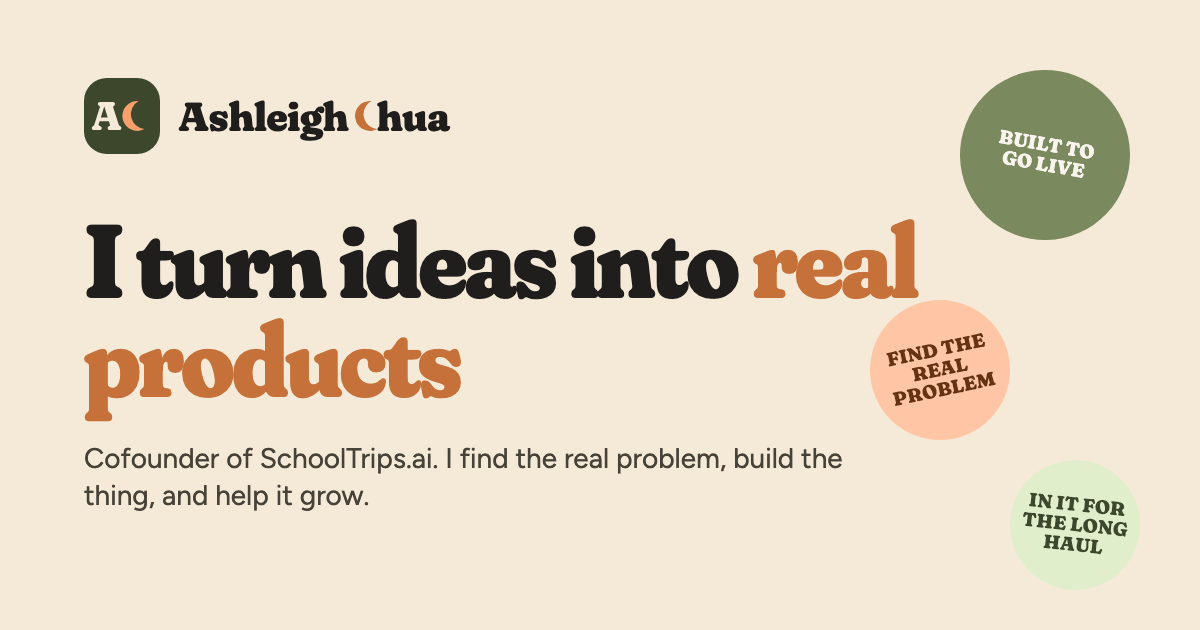
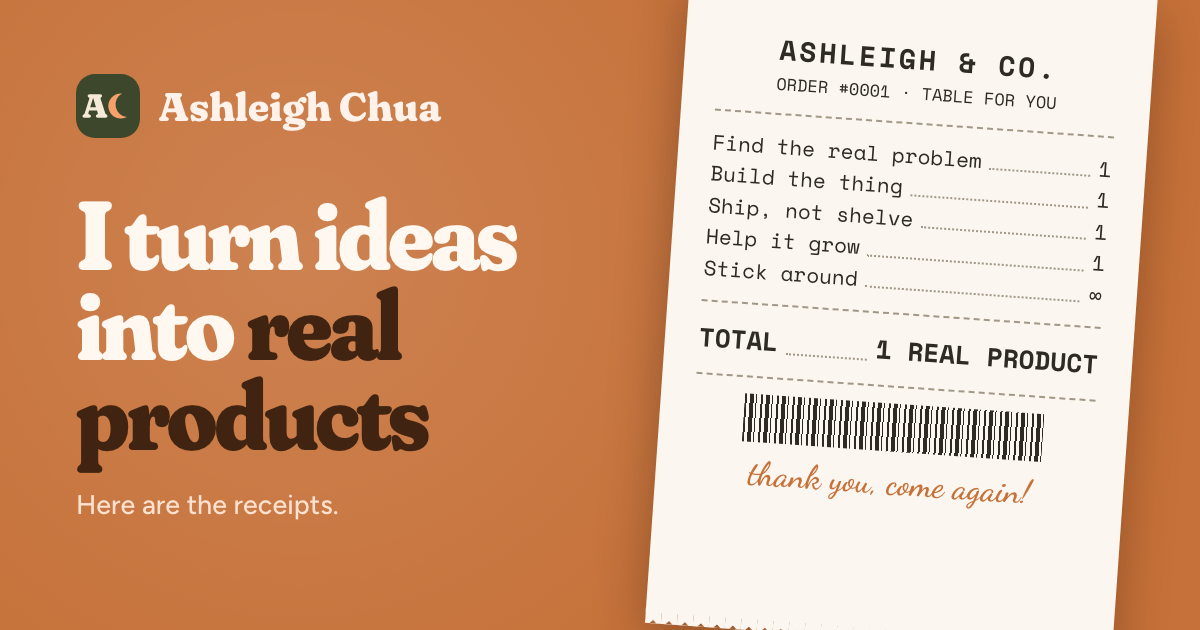
Swap the link preview for the receipt thumbnail
Bump the og:image URL so apps that cached the old image fetch the new one.

diff --git a/src/routes/index.tsx b/src/routes/index.tsx
@@ -17,14 +17,18 @@ export const Route = createFileRoute("/")({
       { property: "og:type", content: "website" },
       { property: "og:url", content: SITE },
       { property: "og:site_name", content: "Ashleigh Chua" },
-      { property: "og:image", content: `${SITE}/og-image.png` },
+      { property: "og:image", content: `${SITE}/og-image.png?v=2` },
       { property: "og:image:width", content: "1200" },
       { property: "og:image:height", content: "630" },
-      { property: "og:image:alt", content: "Ashleigh Chua: I turn ideas into real products" },
+      {
+        property: "og:image:alt",
+        content:
+          "Ashleigh Chua: I turn ideas into real products, shown beside a receipt totalling one real product",
+      },
       { name: "twitter:card", content: "summary_large_image" },
       { name: "twitter:title", content: TITLE },
       { name: "twitter:description", content: DESCRIPTION },
-      { name: "twitter:image", content: `${SITE}/og-image.png` },
+      { name: "twitter:image", content: `${SITE}/og-image.png?v=2` },
     ],
   }),
   component: Index,
